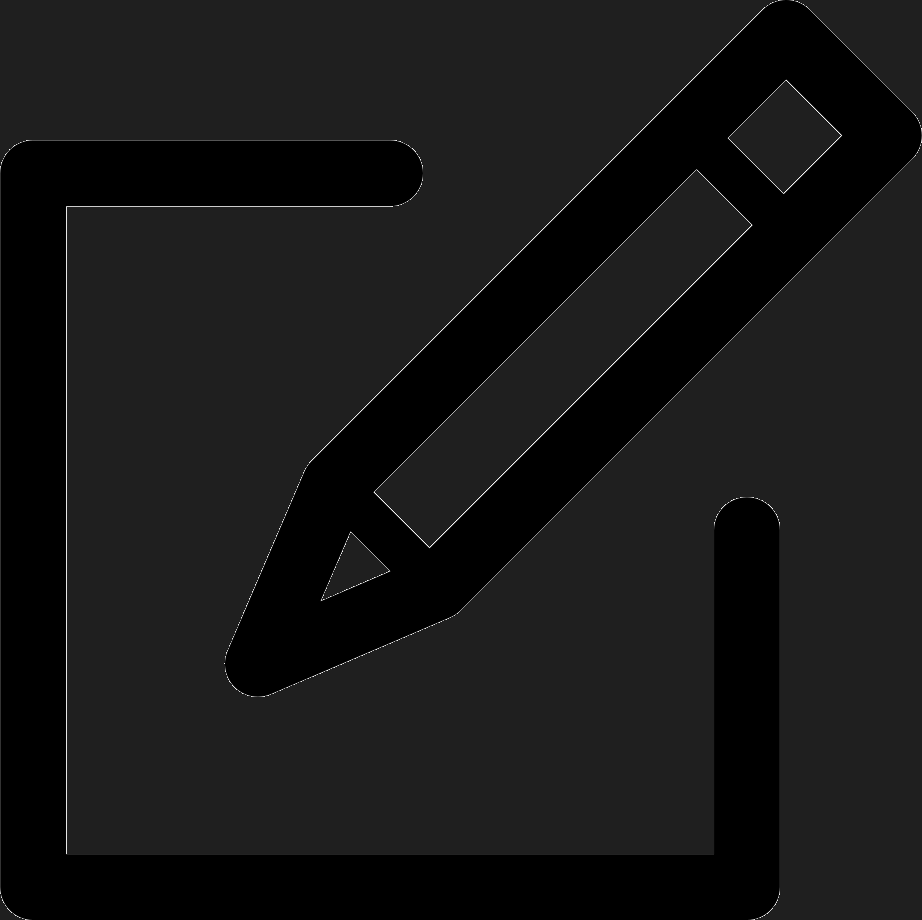
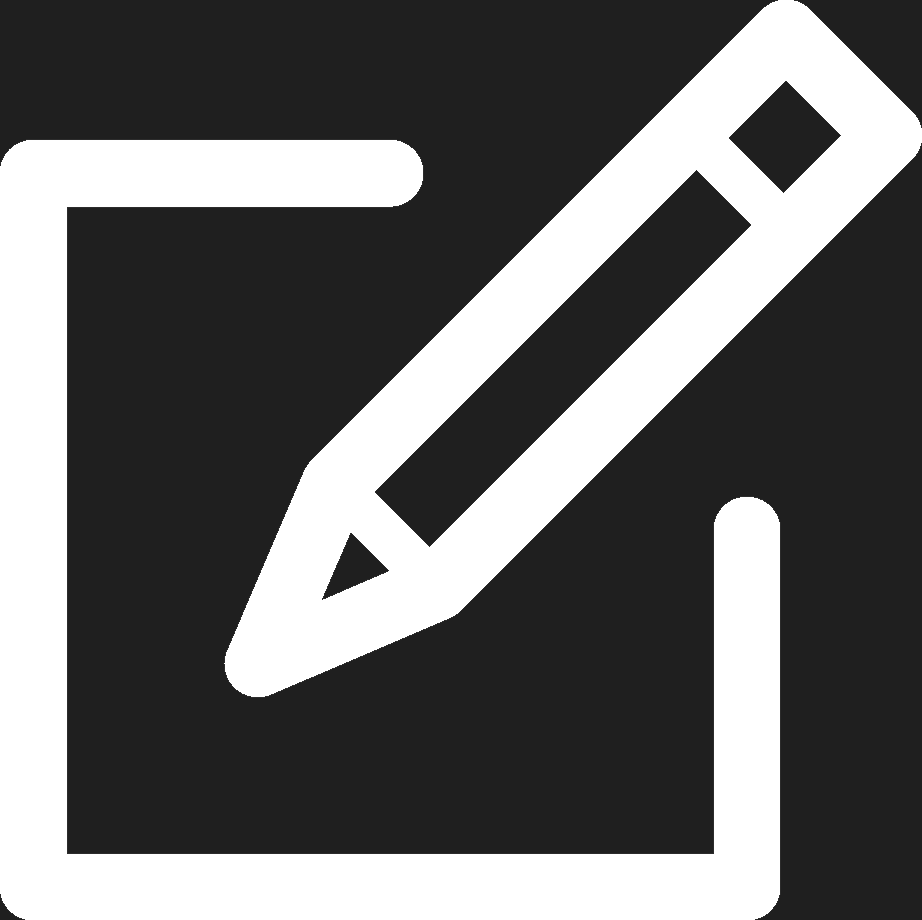
dist -c

diff --git a/AGUI/_internal/dist/result.py b/AGUI/_internal/dist/result.py
@@ -67,14 +67,14 @@ class Result:
         title_label.image = image
         title_label.grid(padx=(175, 0), pady=(0,0), sticky='nsew')
         
-        
-        edit_image = Image.open("_internal/img/button2.png") 
-        edit_image = edit_image.resize((50, 50), Image.BICUBIC)
-        edit_photo = ImageTk.PhotoImage(edit_image)
-        
-        edit_button = CTkButton(self.root, image=edit_photo, text="Edit", font=("Oswald", 15, "bold"), text_color="black", fg_color="gray12", bg_color="gray12", hover_color="gray12", command=lambda: self.edit_user_details(self.currentId))
-        edit_button.image = edit_photo
-        edit_button.place(x=1150, y=0)
+        if self.currentId:
+            edit_image = Image.open("_internal/img/button2.png") 
+            edit_image = edit_image.resize((50, 50), Image.BICUBIC)
+            edit_photo = ImageTk.PhotoImage(edit_image)
+            
+            edit_button = CTkButton(self.root, image=edit_photo, text="Edit", font=("Oswald", 15, "bold"), text_color="white", fg_color="gray12", bg_color="gray12", hover_color="gray12", command=lambda: self.edit_user_details(self.currentId))
+            edit_button.image = edit_photo
+            edit_button.place(x=1150, y=0)
 
 
         self.service_info_label = CTkLabel(self.service_frame, textvariable=self.service_info_var, justify=tk.LEFT, font=("Oswald", 15), 

diff --git a/dist/result.py b/dist/result.py
@@ -67,14 +67,14 @@ class Result:
         title_label.image = image
         title_label.grid(padx=(175, 0), pady=(0,0), sticky='nsew')
         
-        
-        edit_image = Image.open("_internal/img/button2.png") 
-        edit_image = edit_image.resize((50, 50), Image.BICUBIC)
-        edit_photo = ImageTk.PhotoImage(edit_image)
-        
-        edit_button = CTkButton(self.root, image=edit_photo, text="Edit", font=("Oswald", 15, "bold"), text_color="black", fg_color="gray12", bg_color="gray12", hover_color="gray12", command=lambda: self.edit_user_details(self.currentId))
-        edit_button.image = edit_photo
-        edit_button.place(x=1150, y=0)
+        if self.currentId:
+            edit_image = Image.open("_internal/img/button2.png") 
+            edit_image = edit_image.resize((50, 50), Image.BICUBIC)
+            edit_photo = ImageTk.PhotoImage(edit_image)
+            
+            edit_button = CTkButton(self.root, image=edit_photo, text="Edit", font=("Oswald", 15, "bold"), text_color="white", fg_color="gray12", bg_color="gray12", hover_color="gray12", command=lambda: self.edit_user_details(self.currentId))
+            edit_button.image = edit_photo
+            edit_button.place(x=1150, y=0)
 
 
         self.service_info_label = CTkLabel(self.service_frame, textvariable=self.service_info_var, justify=tk.LEFT, font=("Oswald", 15), 
